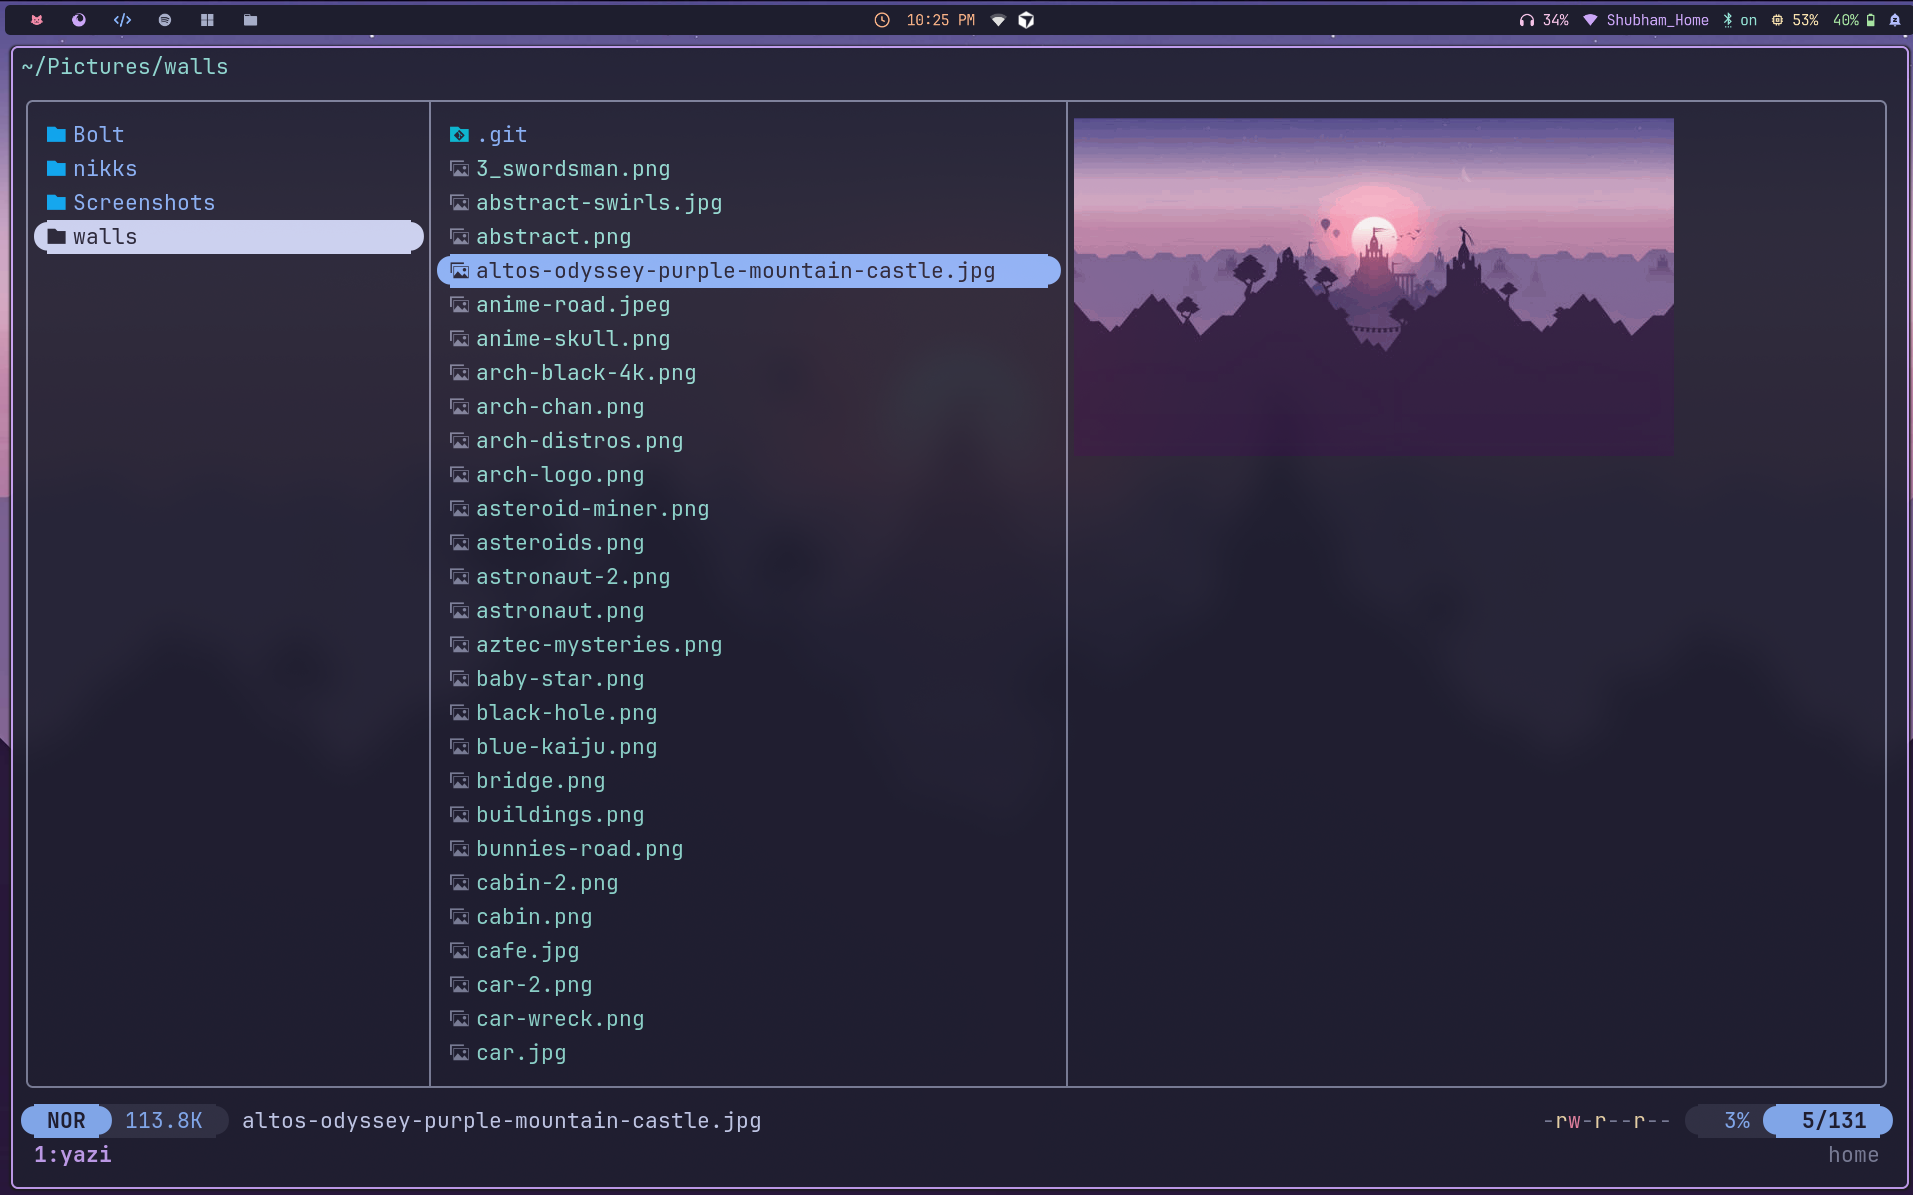
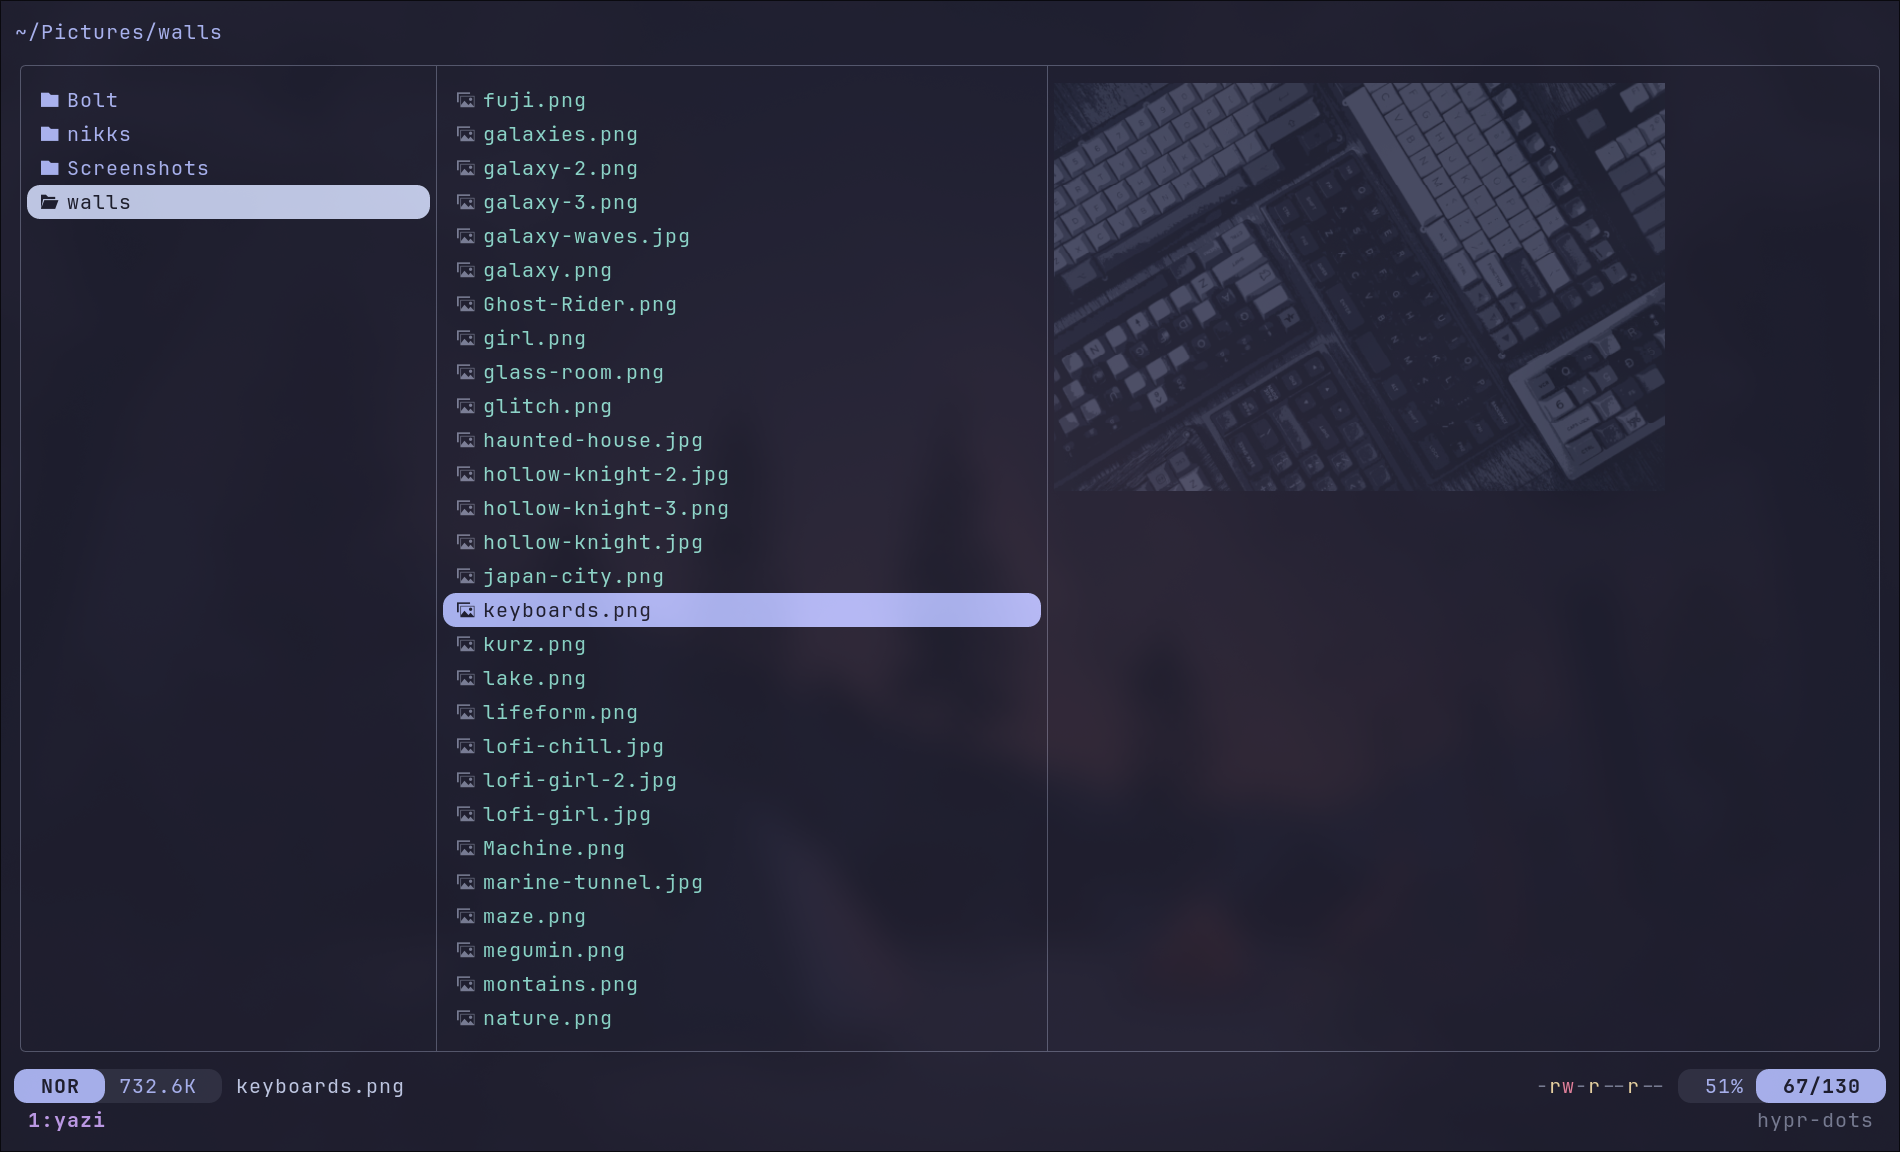
updated screenshots

diff --git a/README.md b/README.md
@@ -12,10 +12,9 @@
 <br>
 
 <p align="center">
-<video src="https://raw.githubusercontent.com/xshubhamg/hypr-dots/main/assets/tour.mp4"
-       controls
-       width="100%">
-</video>
+<img src="https://raw.githubusercontent.com/xshubhamg/hypr-dots/main/assets/tour.gif"
+     alt="Hyprland desktop tour"
+     width="100%" />
 </p>
 
 </div>
@@ -28,14 +27,16 @@
 
 | | |
 |:---:|:---:|
-| ![Rofi](assets/screenshots/02-rofi.png) | ![SDDM](assets/screenshots/03-sddm-theme.png) |
-| **Rofi Launcher** — `Super + R` | **SDDM Login Theme** — Catppuccin styled greeter |
-| ![wlogout](assets/screenshots/04-hyprlock.png) | ![Waypaper](assets/screenshots/05-waypaper.png) |
-| **wlogout** — `Super + Shift + M` | **Waypaper** — `Super + W` |
-| ![Yazi](assets/screenshots/06-yazi.png) | ![Neovim](assets/screenshots/07-neovim.png) |
-| **Yazi File Manager** — with image previews | **Neovim** — LazyVim dashboard |
-| ![Zen Browser](assets/screenshots/08-zen-browser.png) | |
-| **Zen Browser** — Catppuccin themed | |
+| ![Desktop](assets/screenshots/01-desktop.png) | ![Rofi](assets/screenshots/02-rofi.png) |
+| **Desktop** — Hyprland overview | **Rofi Launcher** — `Super + R` |
+| ![SDDM](assets/screenshots/03-sddm-theme.png) | ![hyprlock](assets/screenshots/04-hyprlock.png) |
+| **SDDM Login Theme** — Catppuccin styled greeter | **hyprlock** — lock screen |
+| ![Waypaper](assets/screenshots/05-waypaper.png) | ![Yazi](assets/screenshots/06-yazi.png) |
+| **Waypaper** — `Super + W` | **Yazi File Manager** — with image previews |
+| ![Discord](assets/screenshots/07-discord.png) | ![Zen Browser](assets/screenshots/08-zen-browser.png) |
+| **Discord** — themed app setup | **Zen Browser** — Catppuccin themed |
+| ![Zeditor](assets/screenshots/09-zeditor.png) | |
+| **Zeditor** — editor setup | |
 
 </div>
 
